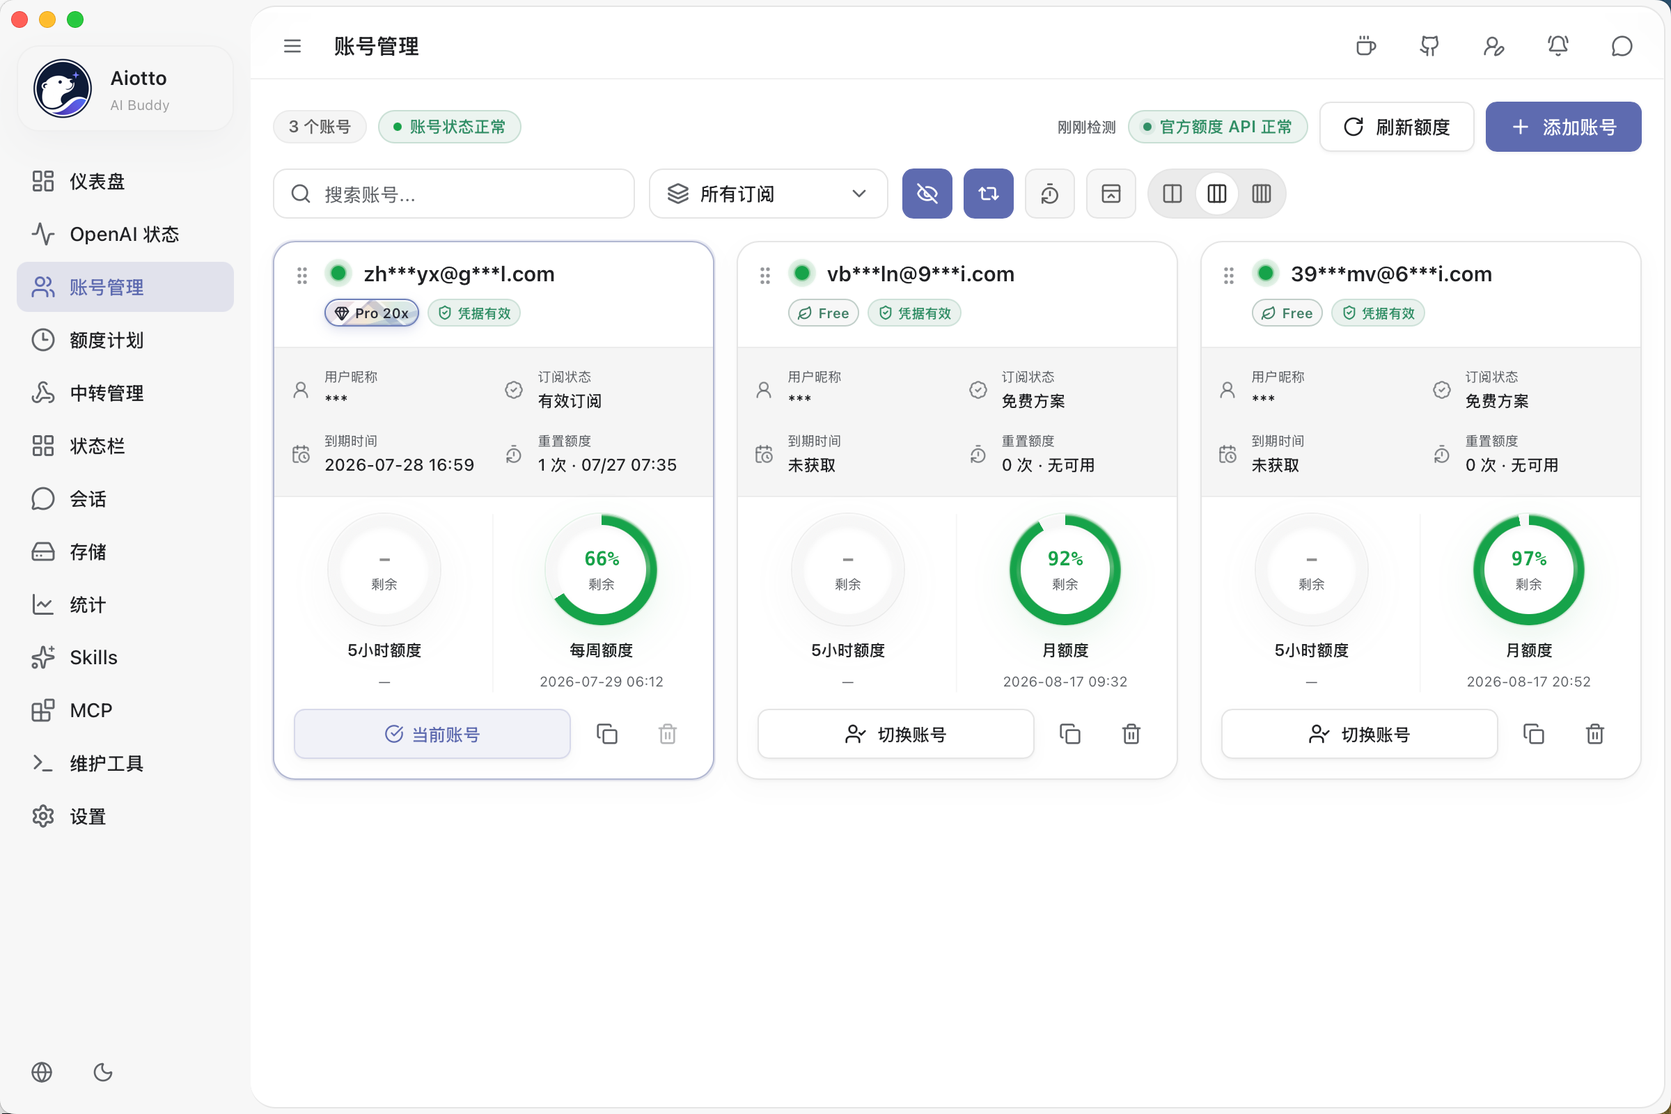
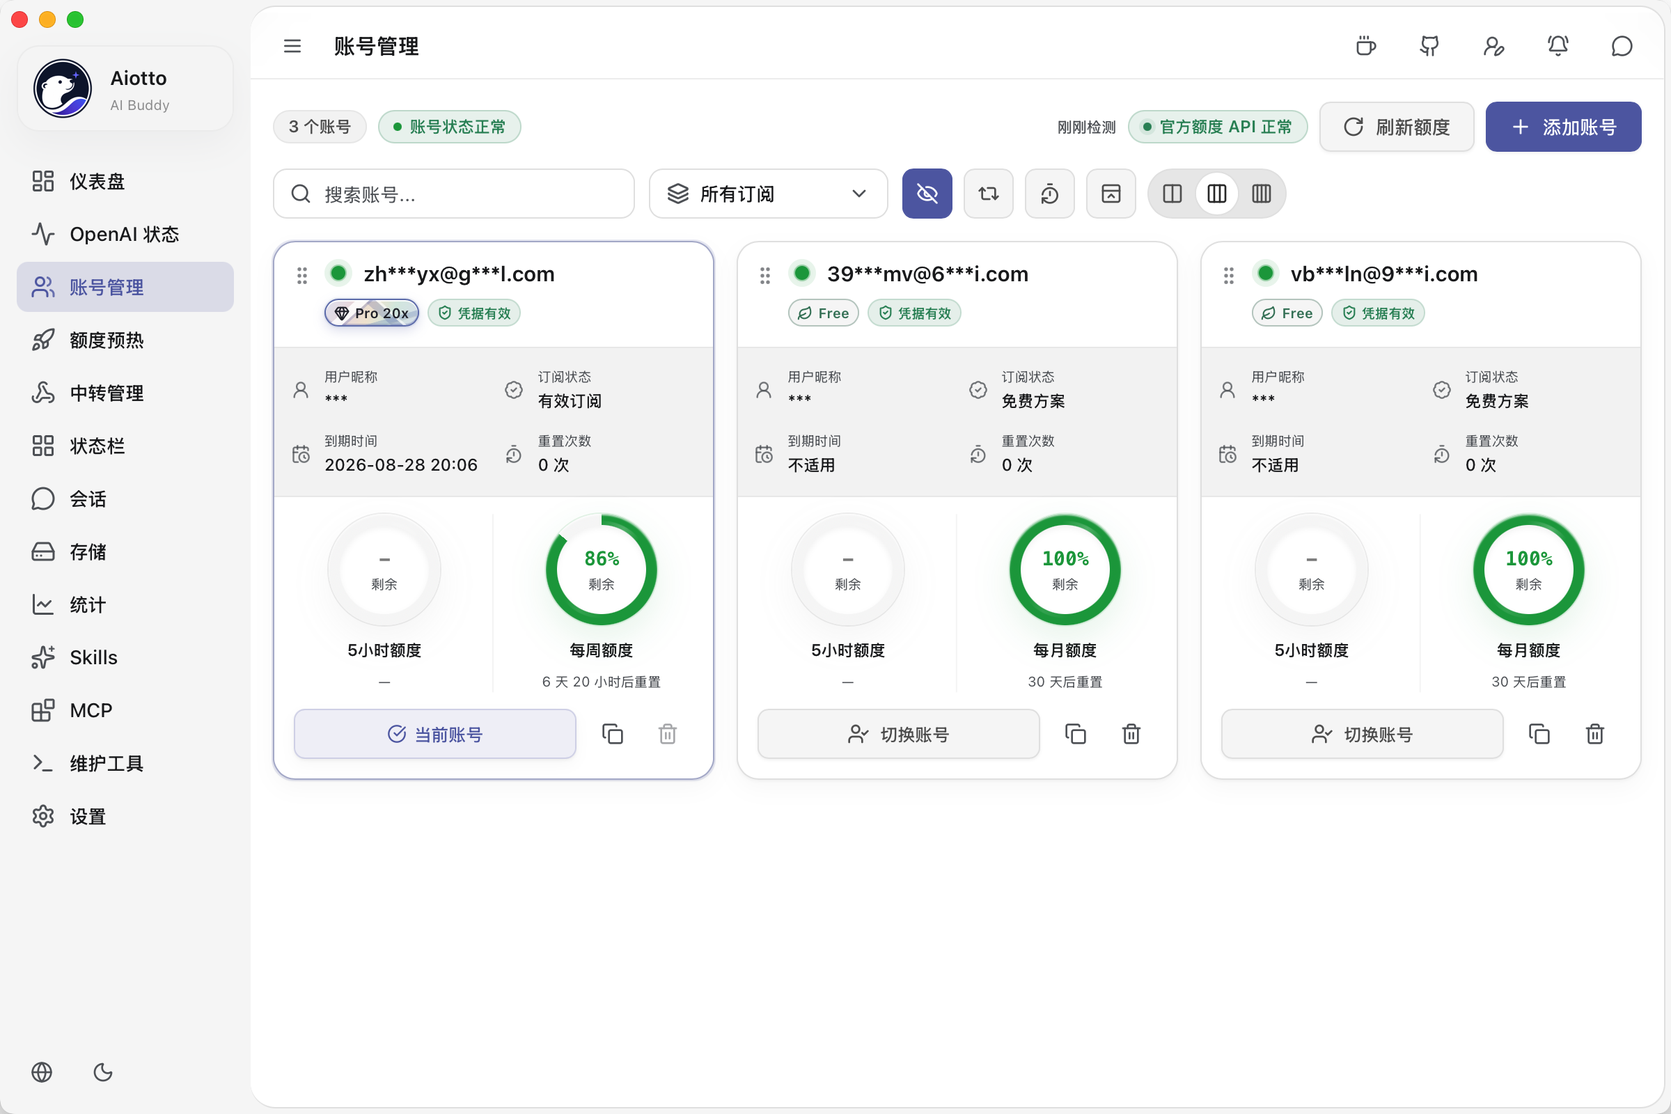
更新 Aiotto 功能说明与产品截图
改动内容：
- 更新中英文 README，补充账号精确重置时间、跨协议多中转、混合模型会话、额度预热、请求级统计、存储清理和脱敏诊断说明。
- 更新账号管理和仪表盘截图，新增中转管理及 Codex 同一会话跨模型切换截图。

实现与影响：
- 功能表和重点说明继续围绕账号管理与多中转，补充官方模型、中转 Claude 和中转 GPT 在同一会话中的选择方式与上下文连续性。
- 四张产品截图均来自真实界面；包含完整邮箱的状态栏截图未纳入。
- 不改变应用版本、安装包或运行逻辑。

验证：
- 完整预演通过；文件范围检查、敏感信息扫描和中英文文案检查均成功。
- TypeScript/Vite 构建与 Rust cargo check 通过。
- README 图片引用与对应静态文件已核对。

未包含与风险：
- 未发布新的应用版本或安装包。
- 未加入包含完整邮箱的截图，也未使用生成式修改后的产品界面图。

diff --git a/README_EN.md b/README_EN.md
@@ -9,7 +9,7 @@
 </p>
 
 <p align="center">
-  See quota in one place, switch accounts quickly, and keep official and relay models in the same list.
+  See quota in one place, switch accounts quickly, and keep official models and relay models that use different protocols in the same list.
 </p>
 
 <p align="center">
@@ -34,26 +34,28 @@
 
 | Feature | What it gives you |
 | --- | --- |
-| Account management | Complete setup once and save an account snapshot; compare five-hour and weekly quota, then switch to the next available account with one click |
+| Account management | Save an account snapshot once; compare five-hour, weekly, or monthly quota with exact reset times and countdowns, then switch accounts with one click |
 | Quota alerts | Set an alert by remaining-quota percentage and get a reminder when it is time to switch |
-| Multi-relay aggregation | Manage several relays together; with a ChatGPT account, official and relay models appear in the same Codex model list |
+| Multi-relay aggregation | Manage several relays and their models together; with a ChatGPT account, official and relay models appear in the same Codex model list |
+| Mixed-model sessions | Continue an existing session across official, relay Codex, Claude, and other compatible models while preserving the visible conversation context |
 | No-account mode | Use configured relay models even when you do not have a ChatGPT account |
 | Mobile remote use | Configure the relay on your computer once; when remotely controlling that computer's Codex session from the same ChatGPT account on your phone, relay models remain selectable |
-| Quota warm-up | Schedule automatic warm-up tasks so the quota window better matches your working hours |
-| macOS menu bar | Check account quota, service state, relays, and recent sessions without opening the main window |
-| Sessions and usage | Review session history, tokens, cache activity, requests, and estimated cost |
-| Storage and maintenance | Review local storage, backups and restores, OpenAI status, Skills, MCP, updates, and common maintenance actions |
+| Quota warm-up | Schedule and test warm-up plans, review conflicts, the next run, and recent results, and align the quota window with your working hours |
+| macOS menu bar | Check account quota, reset countdowns, recent sessions, and each relay's state, protocol, network mode, and latency without opening the main window |
+| Sessions and usage | Manage history and filter request-level tokens, cache, latency, and estimated cost by official or relay source, model, and date |
+| Storage and diagnostics | Find large files through a treemap and ranking, clean them safely, and diagnose account, relay, and runtime issues before requesting support |
+| Other tools | Review OpenAI service status, Skills, MCP, application updates, and common maintenance actions |
 
 ## The problems Aiotto focuses on
 
 ### 1. Multiple accounts make quota hard to see and switching slow
 
-Five-hour quota, weekly quota, and reset times differ across accounts. Checking each account separately takes time, and it is easy to start work on an account that is already close to its limit.
+Five-hour, weekly, or monthly quota and reset times differ across accounts. Checking each account separately takes time, and it is easy to start work on an account that is already close to its limit.
 
 Aiotto puts those accounts on one page:
 
 - Complete account setup once and save a reusable snapshot.
-- See the plan, login state, quota, and reset time on each card.
+- See the plan, login state, available quota, exact reset time, and live countdown on each card.
 - Click an account card to switch, or move quickly to the next available account.
 - Set a remaining-quota percentage and get a reminder when it is time to switch.
 
@@ -63,42 +65,64 @@ Aiotto puts those accounts on one page:
 
 <p align="center"><sub>Account identifiers are masked. Quota, state, and switching controls use the real interface layout.</sub></p>
 
-### 2. A relay should not be limited to one active configuration
+### 2. Relays should not require constant reconfiguration when models change
 
-Many tools keep one current relay configuration. Moving to another relay means editing the endpoint, model, or related settings again. Once several relays are involved, configuration switching becomes its own task.
+Many tools keep one current relay configuration. Moving to another relay or model means editing the endpoint, model, or protocol again. Once several relays and models are involved, maintaining the configuration becomes its own task.
 
 Aiotto aggregates them:
 
 - With a ChatGPT account, official models and several relay models share one model list.
 - Without a ChatGPT account, no-account mode lets you work directly through a configured relay model.
-- Before enabling a relay, you can review its models, balance, and latency, then run a connection test.
-- When a relay is no longer needed, disable routing and return to the normal official-model workflow.
+- One relay can contain several models, with GPT, OpenAI-compatible, or Claude protocols selected per model instead of duplicating the relay endpoint.
+- When an existing session moves among official, relay Codex, Claude, and other compatible models, Aiotto handles incompatible state while preserving the visible conversation context.
+- If the selected target is unavailable, Aiotto identifies the relay, model, and reason instead of silently moving the request to an official model or another relay.
+
+When you select an official model, official capabilities remain available according to the current account's entitlement and official service status. Before saving a relay, you can fetch its models and run a real streaming test; after adding it, you can review balance, latency, protocol, and network mode.
+
+<p align="center">
+  <img src="assets/readme-relays.png" alt="Aiotto relay management with model counts, protocols, connection state, and latency" width="1100" />
+</p>
+
+<p align="center"><sub>Manage several relays together and review model counts, protocols, connection state, and latency.</sub></p>
+
+<p align="center">
+  <img src="assets/readme-model-routing.png" alt="Switching among official GPT, relay Claude, and relay GPT models in one Codex session" width="1100" />
+</p>
+
+<p align="center"><sub>One Codex session uses official GPT, relay Claude, and relay GPT in sequence, while official and relay models remain available in the same list.</sub></p>
 
 | Situation | How selection works |
 | --- | --- |
 | You have a ChatGPT account | Official models, Relay A, Relay B, and others appear together in the Codex model list |
 | You do not have a ChatGPT account | Enable no-account mode and select a relay model directly |
+| You switch models in an existing session | Visible conversation context is preserved while incompatible internal state is isolated |
 | You continue a computer task from your phone | Aiotto manages relays on the computer; use the same ChatGPT account to remotely control that computer's Codex session and select a relay model from the list |
 
 There is no need to enter relay endpoints and keys again on the phone. Aiotto keeps relay management on the computer while the phone remotely controls the Codex session running there.
+
+After Smart Routing is disabled, relay models stop immediately. Aiotto restores the native official workflow once any required session cleanup is complete.
 
 ## Other everyday problems
 
 ### The quota window is not ready when work starts
 
-Quota warm-up can start a scheduled task in advance, bringing the five-hour window closer to your regular working hours. It is useful when you rely on Codex at a fixed time and do not want to wait for the window to recover.
+Quota warm-up can start a scheduled task in advance, bringing the five-hour window closer to your regular working hours. You can schedule several times, test a plan, review conflicts and the next run, and confirm the outcome from recent records.
 
 ### Checking quota should not require the main window
 
-On macOS, the menu-bar view shows the current account, quota, reset time, relay state, service state, and recent sessions. Common actions are available there as well.
+On macOS, the menu-bar view shows quota, exact reset times, live countdowns, and recent sessions for the current and other accounts. It also shows each relay's availability, protocol, network mode, and latency. Privacy mode hides sensitive details while retaining the account count, current account, and switching controls.
 
 ### Session history grows, but token usage remains unclear
 
-Search, continue, pin, archive, restore, and export previous sessions. Usage statistics break down input, output, cache activity, requests, model source, and estimated cost over time.
+Search, continue, pin, archive, restore, and export previous sessions. Filter usage by official or relay source, relay service, model, and date, then inspect each request's input, output, cache, total tokens, latency, status, and estimated cost. If a history record is anomalous, confirmed data remains visible with a clear affected range.
 
 ### Local data keeps growing, but cleaning it feels risky
 
-Aiotto shows the composition of local Codex storage and session usage, with backups, restore previews, and cleanup guidance. OpenAI status, Skills, MCP, update checks, and common maintenance actions are also available in the app.
+An interactive treemap and session ranking show the size, share, and last update time of local Codex data. Move a session to Trash first when appropriate; permanent cleanup creates a safety backup and protects active, pinned, running, and recent sessions.
+
+### It is hard to tell whether an issue comes from an account, relay, or Codex
+
+Maintenance tools can check account, relay, session, and runtime state first, with safe actions for issues that can be confirmed. When more help is needed, export or send redacted diagnostics and keep the returned diagnostic ID for follow-up.
 
 ## One dashboard for the full picture
 
@@ -138,9 +162,9 @@ A system security prompt may appear the first time you open Aiotto. If Windows b
 
 Yes. Add an available relay in Aiotto, complete the connection test, and enable no-account mode.
 
-### Can I keep using official models when I have an account?
+### Can I keep using official models and capabilities when I have an account?
 
-Yes. When routing is enabled, official and relay models appear together. Disable routing to return to the normal official-model workflow.
+Yes. When Smart Routing is enabled, official and relay models appear together. Official capabilities remain available according to the current account's entitlement and official service status. If a selected relay is unavailable, Aiotto reports it instead of silently consuming official quota.
 
 ### Why can relay models also appear on my phone?
 

diff --git a/README.md b/README.md
@@ -9,7 +9,7 @@
 </p>
 
 <p align="center">
-  集中看额度、快速切换账号，把官方模型和多个中转模型放进同一个列表。
+  集中看额度、快速切换账号，把官方模型和不同协议的中转模型放进同一个列表。
 </p>
 
 <p align="center">
@@ -34,26 +34,28 @@
 
 | 功能 | 你能得到什么 |
 | --- | --- |
-| 账号管理 | 一次登记并保存账号快照；集中查看 5 小时和每周额度，一键切换到下一个可用账号 |
+| 账号管理 | 一次登记并保存账号快照；集中查看 5 小时、每周或每月额度、精确重置时间和倒计时，一键切换账号 |
 | 额度提醒 | 按剩余额度百分比设置提醒，达到阈值时提示切换，不用一直盯着进度条 |
-| 多中转聚合 | 同时管理多个中转；有 ChatGPT 账号时，官方模型和中转模型出现在同一个 Codex 模型列表 |
+| 多中转聚合 | 同时管理多个中转和模型；有 ChatGPT 账号时，官方模型和中转模型出现在同一个 Codex 模型列表 |
+| 混合会话 | 在同一历史会话中切换官方模型、中转 Codex、Claude 或国产模型，处理协议差异并保留可见对话上下文 |
 | 无账号使用 | 没有 ChatGPT 账号也能使用无账号模式，直接选择已经接入的中转模型 |
 | 手机远程使用 | 电脑端配置一次；使用同一 ChatGPT 账号在手机上远程操作电脑端 Codex 会话时，也能选择中转模型 |
-| 额度预热 | 按计划自动发起预热任务，让额度窗口更贴合自己的工作时间 |
-| macOS 状态栏 | 不打开主窗口也能查看账号额度、服务状态、中转和最近会话 |
-| 会话与统计 | 查看历史会话、Token、缓存、请求量和折算金额，知道时间和额度花在了哪里 |
-| 存储与维护 | 查看本地占用、备份与恢复、OpenAI 状态、Skills、MCP、更新和常见维护入口 |
+| 额度预热 | 安排并测试预热计划，查看时间冲突、下次执行和最近结果，让额度窗口更贴合工作时间 |
+| macOS 状态栏 | 不打开主窗口也能查看账号额度、重置倒计时、最近会话，以及各中转的状态、协议、网络方式和延迟 |
+| 会话与统计 | 管理历史会话；按官方或中转、模型和日期查看请求级 Token、缓存、延迟与折算金额 |
+| 存储与诊断 | 用树图和排行定位大文件并安全清理；检查账号、中转和运行状态，需要支持时可发送脱敏诊断 |
+| 其他工具 | 查看 OpenAI 服务状态、Skills、MCP、应用更新和常用维护入口 |
 
 ## 重点解决的痛点
 
 ### 1. 账号多了以后，查看余额不方便，切换也慢
 
-多个账号的 5 小时额度、每周额度和重置时间并不一致。平时要逐个登录确认，真正用到时又容易停在一个快见底的账号上。
+多个账号的 5 小时额度、每周或每月额度和重置时间并不一致。平时要逐个登录确认，真正用到时又容易停在一个快见底的账号上。
 
 Aiotto 把账号放在同一页：
 
 - 账号完成一次登记后，保存为可切换的账号快照。
-- 每张卡片直接显示套餐、登录状态、额度和重置时间。
+- 每张卡片直接显示套餐、登录状态、可用额度、精确重置时间和动态倒计时。
 - 点击账号卡片即可切换，也可以快速切到下一个可用账号。
 - 可按剩余额度百分比设置提醒，到达阈值时提示换号。
 
@@ -63,42 +65,64 @@ Aiotto 把账号放在同一页：
 
 <p align="center"><sub>账号信息已做掩码；额度、状态和切换入口保留真实界面结构。</sub></p>
 
-### 2. 中转不该每次只能用一个
+### 2. 中转不该每次只能用一个，换模型也不该反复改配置
 
-常见做法是保存一个当前中转。要换到另一个中转时，再去改地址、模型或配置。中转一多，切换本身就成了工作。
+常见做法是只保存一个当前中转。要换中转或模型时，再去改地址、模型或协议。中转和模型一多，维护配置本身就成了工作。
 
 Aiotto 会把多个中转聚合起来：
 
 - 有 ChatGPT 账号：官方模型和多个中转模型放在同一个模型列表，需要哪个就选哪个。
 - 没有 ChatGPT 账号：启用无账号使用模式，直接通过中转模型开始工作。
-- 中转接入前可以查看模型、余额和延迟，并先做连接测试。
-- 不再使用中转时，可以关闭路由并回到正常的官方模型使用方式。
+- 一个中转可以添加多个模型，并按模型使用 GPT、OpenAI 兼容或 Claude 协议，不必重复维护多套中转地址。
+- 同一历史会话切换官方模型、中转 Codex、Claude 或国产模型时，Aiotto 会处理不兼容状态并保留可见对话上下文。
+- 选中的目标不可用时会明确说明实际中转、模型和原因，不会悄悄改走官方模型或另一个中转。
+
+选择官方模型时，官方能力仍按当前账号权益和官方服务状态使用。保存中转前可以拉取模型并做真实流式测试；添加后可查看余额、延迟、协议和网络方式。
+
+<p align="center">
+  <img src="assets/readme-relays.png" alt="Aiotto 中转管理：集中查看模型数量、协议、连接状态与延迟" width="1100" />
+</p>
+
+<p align="center"><sub>多个中转集中管理；可分别查看模型数量、协议、连接状态和延迟。</sub></p>
+
+<p align="center">
+  <img src="assets/readme-model-routing.png" alt="Codex 同一会话中切换官方 GPT、中转 Claude 与中转 GPT 模型" width="1100" />
+</p>
+
+<p align="center"><sub>同一 Codex 会话中依次使用官方 GPT、中转 Claude 与中转 GPT；右侧同时显示官方和多个中转模型。</sub></p>
 
 | 使用场景 | 选择方式 |
 | --- | --- |
 | 有 ChatGPT 账号 | 官方模型、中转 A、中转 B 等同时出现在 Codex 模型列表 |
 | 没有 ChatGPT 账号 | 开启无账号使用模式，直接选择中转模型 |
+| 在历史会话中切换模型 | 保留可见对话上下文，并隔离不同模型不兼容的内部状态 |
 | 在手机上继续电脑任务 | 电脑端由 Aiotto 管理中转；手机使用同一 ChatGPT 账号远程操作这台电脑的 Codex 会话，并从列表选择中转模型 |
 
 手机端不需要再录入一遍中转地址和密钥。中转仍由电脑端 Aiotto 管理，手机负责远程操作同一台电脑上的 Codex 会话。
+
+关闭智能路由后，中转模型会立即停用；如有必要，Aiotto 会在完成会话兼容处理后恢复原生官方使用方式。
 
 ## 另外几个常见麻烦
 
 ### 到了工作时间，额度窗口还没恢复好
 
-额度预热可以按计划自动发起任务，让 5 小时额度窗口提前进入预期节奏。适合每天在固定时间集中使用 Codex，又不想临时等待额度恢复的人。
+额度预热可以按计划自动发起任务，让 5 小时额度窗口提前进入预期节奏。你可以安排多个时间、先测试计划、查看冲突与下次执行，并从最近记录确认结果。
 
 ### 每次看余额都要打开主窗口
 
-macOS 用户可以直接在顶部状态栏查看当前账号、额度、重置时间、中转状态、服务状态和最近会话，也能从这里进入常用操作。
+macOS 用户可以直接在顶部状态栏查看当前及其他账号的额度、精确重置时间、动态倒计时和最近会话，也能分别查看各中转的可用状态、协议、网络方式和延迟。隐私模式隐藏敏感信息后，仍保留账号数量、当前账号和切换入口。
 
 ### 历史会话很多，Token 花在哪也说不清
 
-会话页可以搜索、继续、置顶、归档、恢复和导出历史任务。统计页按时间查看输入、输出、缓存、请求量、模型来源和折算金额，便于判断主要消耗来自哪里。
+会话页可以搜索、继续、置顶、归档、恢复和导出历史任务。统计页可按官方或中转、中转服务、模型和日期筛选，并查看每个请求的输入、输出、缓存、总 Token、延迟、状态和折算金额；遇到异常历史记录时，会保留可确认的数据并说明影响范围。
 
 ### 本地内容越积越多，又不敢直接清理
 
-Aiotto 会展示 Codex 本地存储构成和会话占用，并提供备份、恢复预览和清理建议。OpenAI 状态、Skills、MCP、更新检查和常见维护入口也放在应用里。
+Aiotto 用交互式矩形树图和会话排行展示 Codex 本地存储构成、大小、占比和最近更新时间。可以先把会话移入回收站；永久清理前会创建安全备份，并保护活跃、置顶、运行中和近期会话。
+
+### 出了问题，不知道是账号、中转还是 Codex
+
+维护工具可以先检查账号、中转、会话和运行状态，并对可确认的问题提供安全处理入口。需要进一步支持时，可以导出或发送脱敏诊断，并获得用于后续沟通的诊断编号。
 
 ## 一个仪表盘看全局
 
@@ -138,9 +162,9 @@ xattr -cr /Applications/Aiotto.app
 
 可以。先在 Aiotto 中添加可用的中转并完成连接测试，再开启无账号使用模式。
 
-### 有账号时还能继续使用官方模型吗？
+### 有账号时还能继续使用官方模型和官方能力吗？
 
-可以。开启路由后，官方模型和中转模型会同时显示；关闭路由后会回到正常的官方使用方式。
+可以。开启智能路由后，官方模型和中转模型会同时显示；选择官方模型时，相关能力仍按当前账号权益和官方服务状态使用。选中的中转不可用时，Aiotto 会明确提示，不会悄悄改用官方额度。
 
 ### 手机上为什么也能看到中转模型？
 
